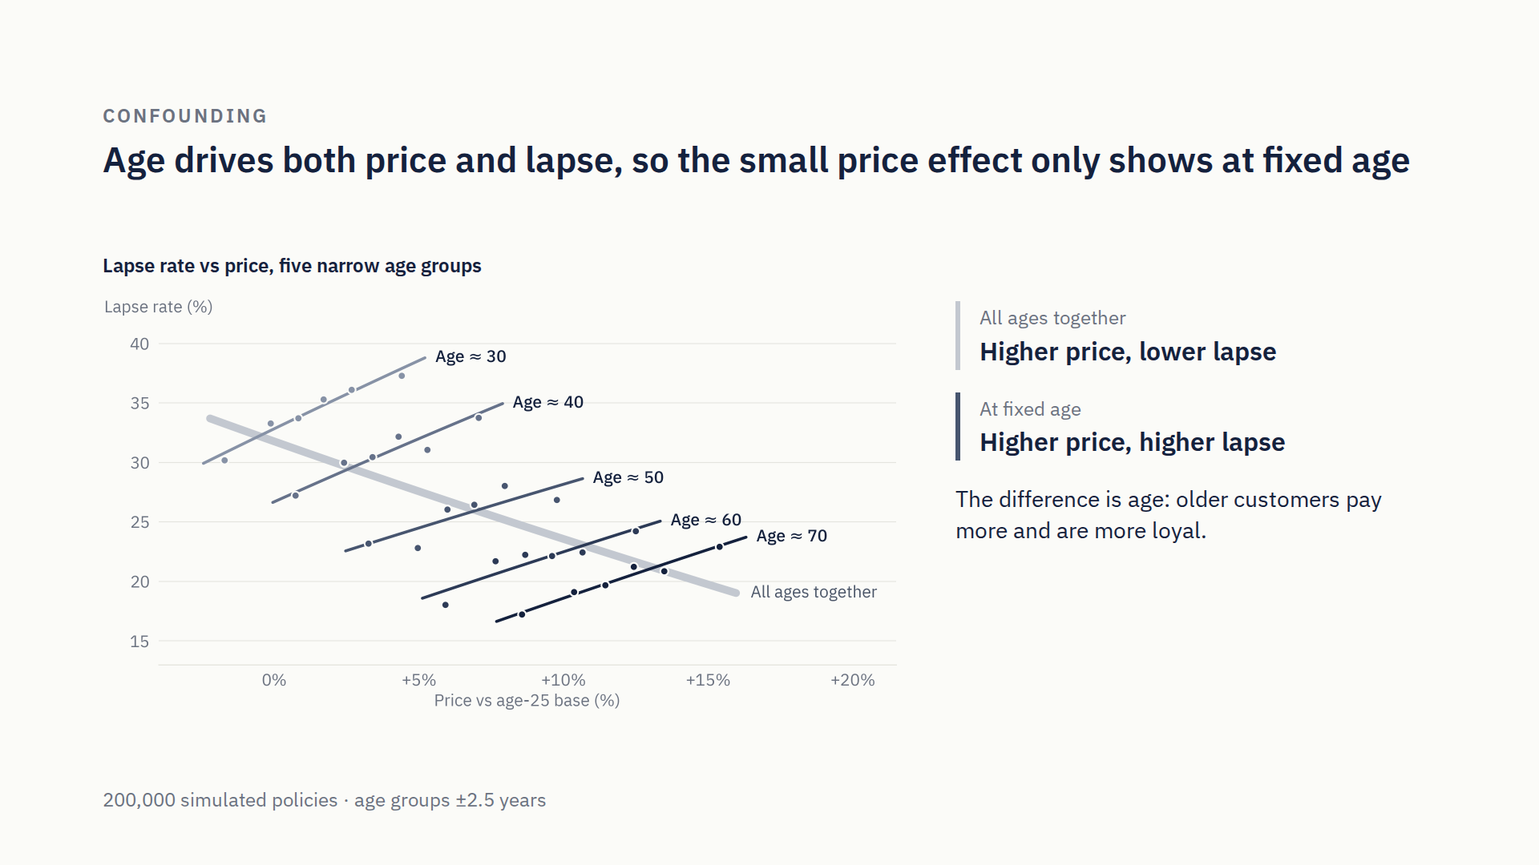
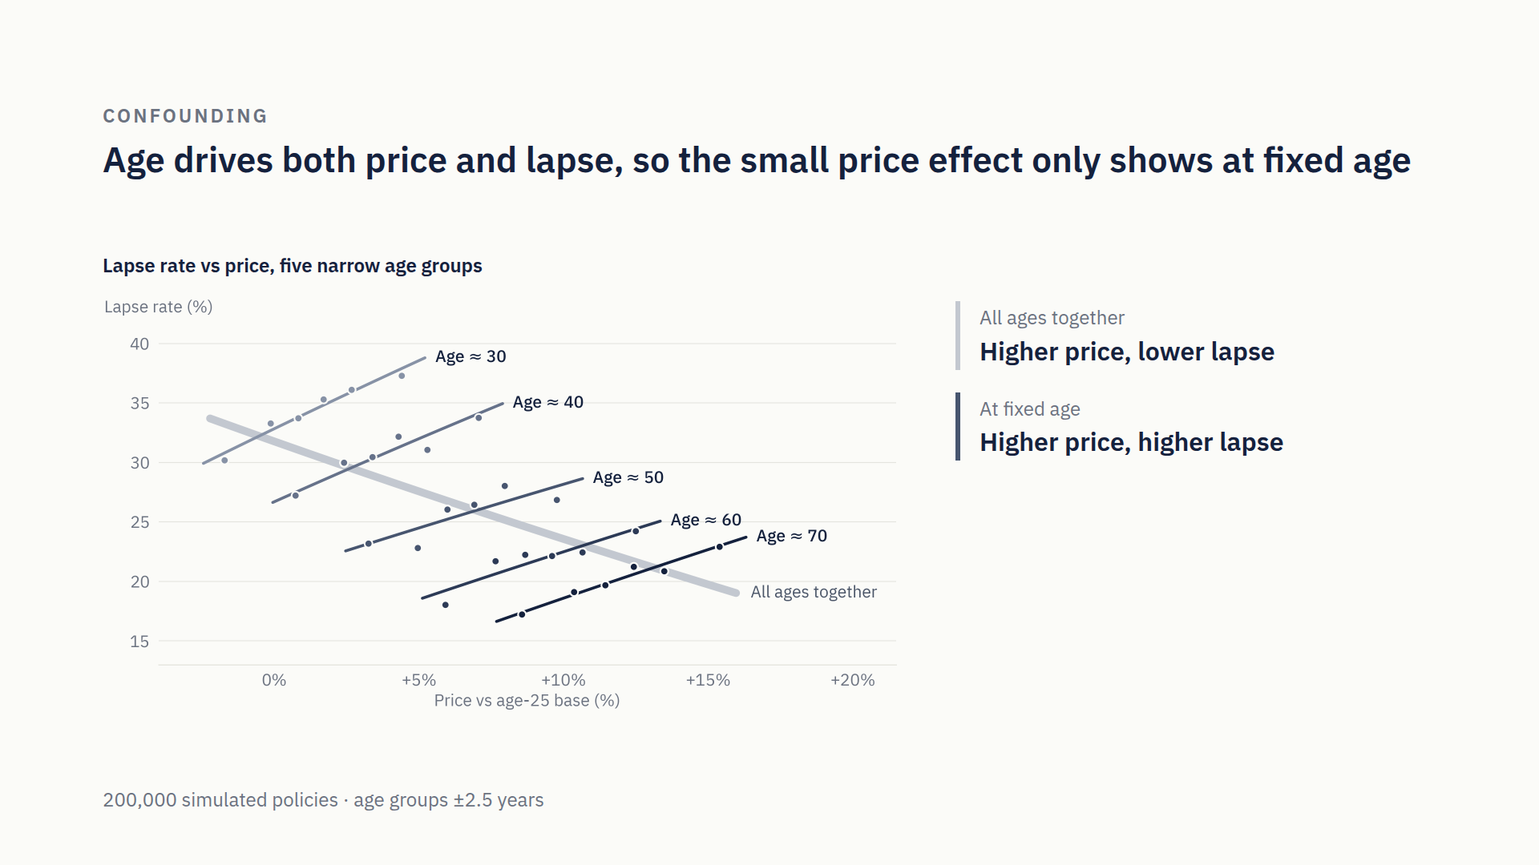
Restructure opening, add takeaways slide, clarify LightGBM naming
- Slide 1: hook only (title, question, known-answer footer); drop the
  causal triangle and the three definition cards.
- Slide 2: the age/price/lapse triangle moves here as click 3, replacing
  the "difference is age" sentence.
- Slide 3: headline names the setup, "LightGBM with price as a feature".
- Slide 4: price-model caption states T̃ = discounts and loadings.
- Slide 6: "What Double ML needs" box moves to the closing slide.
- Slide 7: first-stage heading bridges back: same LightGBM, now only
  asked to predict.
- New slide 9 "Takeaways": three takeaways plus what Double ML needs.
  No new numbers; all figures already in the notes.
- Notes updated to match; screenshots re-rendered for every build step.

Claude-Session: https://claude.ai/code/session_01VHsu4FRFLxVyAMUASwoRCt

diff --git a/causal-pricing-deck/deck/project/slides/question.html b/causal-pricing-deck/deck/project/slides/question.html
@@ -1,41 +1,14 @@
-<section id="question" data-transition="fade" style="background:#14213D; color:#F4F4EF; font-family:'IBM Plex Sans', Arial, sans-serif; padding:128px 128px 160px; display:flex; flex-direction:column; gap:48px">
-  <div style="width:960px; display:flex; flex-direction:column; gap:28px">
+<section id="question" data-transition="fade" style="background:#14213D; color:#F4F4EF; font-family:'IBM Plex Sans', Arial, sans-serif; padding:128px 128px 160px; display:flex; flex-direction:column; justify-content:center; gap:48px">
+  <div style="width:1300px; display:flex; flex-direction:column; gap:36px">
     <p style="font-size:24px; font-weight:600; letter-spacing:3px; text-transform:uppercase; color:#BFC8D6">The question</p>
-    <h1 style="font-size:64px; font-weight:600; line-height:1.1; color:#F4F4EF">A price change is an intervention, not a prediction</h1>
-    <p style="font-size:28px; line-height:1.45; color:#BFC8D6">“What happens to lapse and margin if we raise prices by x%?” An accurate lapse model can still get this wrong.</p>
+    <h1 style="font-size:80px; font-weight:600; line-height:1.1; color:#F4F4EF">A price change is an intervention, not a prediction</h1>
+    <p style="width:1200px; font-size:36px; line-height:1.45; color:#BFC8D6">“What happens to lapse and margin if we raise prices by x%?” An accurate lapse model can still get this wrong.</p>
   </div>
-  <div style="position:absolute; left:1372px; top:128px; width:200px; height:88px; background:#F4F4EF; border-radius:44px; display:flex; align-items:center; justify-content:center"><p style="font-size:32px; font-weight:600; color:#14213D; text-align:center">Age</p></div>
-  <div style="position:absolute; left:1152px; top:448px; width:200px; height:88px; background:#F4F4EF; border-radius:44px; display:flex; align-items:center; justify-content:center"><p style="font-size:32px; font-weight:600; color:#14213D; text-align:center">Price</p></div>
-  <div style="position:absolute; left:1592px; top:448px; width:200px; height:88px; background:#F4F4EF; border-radius:44px; display:flex; align-items:center; justify-content:center"><p style="font-size:32px; font-weight:600; color:#14213D; text-align:center">Lapse</p></div>
-  <x-connector data-build-in="fade 1" x1="1422" y1="216" x2="1252" y2="448" head="end" route="straight" style="color:#9AA5B8; border-width:3px"></x-connector>
-  <p data-build-in="fade 1" style="position:absolute; left:1152px; top:278px; width:150px; font-size:24px; line-height:1.3; color:#BFC8D6; text-align:right">Tariff rises with age</p>
-  <x-connector data-build-in="fade 2" x1="1522" y1="216" x2="1692" y2="448" head="end" route="straight" style="color:#9AA5B8; border-width:3px"></x-connector>
-  <p data-build-in="fade 2" style="position:absolute; left:1642px; top:278px; width:150px; font-size:24px; line-height:1.3; color:#BFC8D6">Lapse falls with age</p>
-  <x-connector data-build-in="fade 3" x1="1352" y1="492" x2="1592" y2="492" head="end" route="straight" style="color:#86B6EF; border-width:5px"></x-connector>
-  <p data-build-in="fade 3" style="position:absolute; left:1360px; top:430px; width:224px; font-size:32px; font-weight:600; color:#86B6EF; text-align:center">θ = ?</p>
-  <div data-build-in="fade 4" style="position:absolute; left:128px; top:654px; width:1664px; height:250px; display:flex; flex-direction:row; gap:32px">
-    <div style="flex:1; display:flex; flex-direction:column; gap:12px; background:#1D2C4D; border-radius:12px; padding:32px">
-      <p style="font-size:24px; font-weight:600; color:#BFC8D6">Price T</p>
-      <p style="font-size:28px; line-height:1.4; color:#E6E9EF">Tariff by age, plus individual discounts and loadings</p>
-    </div>
-    <div style="flex:1; display:flex; flex-direction:column; gap:12px; background:#1D2C4D; border-radius:12px; padding:32px">
-      <p style="font-size:24px; font-weight:600; color:#BFC8D6">Lapse Y</p>
-      <p style="font-size:28px; line-height:1.4; color:#E6E9EF">Lapse at renewal. Older customers are more loyal</p>
-    </div>
-    <div style="flex:1; display:flex; flex-direction:column; gap:12px; background:#1D2C4D; border-radius:12px; padding:32px">
-      <p style="font-size:24px; font-weight:600; color:#BFC8D6">Price effect θ</p>
-      <p style="font-size:28px; line-height:1.4; color:#E6E9EF">+1% price → +1.0 pp lapse, for every customer. Known here, unknown in reality</p>
-    </div>
-  </div>
-  <p style="position:absolute; left:128px; bottom:64px; width:1480px; font-size:24px; color:#8A96AB">Toy world · 200,000 simulated policies · effect sizes exaggerated for visibility</p>
+  <p style="position:absolute; left:128px; bottom:64px; width:1664px; font-size:24px; color:#8A96AB">Toy world with a known answer: +1% price → +1.0 pp lapse · 200,000 simulated policies · effect sizes exaggerated for visibility</p>
   <aside>Message: pricing asks a what-if (intervention); a lapse model answers "who lapses at which price" (prediction).
 - They differ because we set prices from the same factors that drive lapse.
 
-Builds
-- Click 1: tariff rises with age.
-- Click 2: older customers lapse less.
-- Click 3: the arrow we want, price → lapse (θ). Every other path runs through age: confounding.
-- Click 4: the toy world.
+No builds. Pose the question, then promise: we test on a toy portfolio where the answer is known (footer).
 
 Toy world (known truth, so every method can be graded)
 - Age 25–75, one rating factor (in practice: all rating factors).

diff --git a/causal-pricing-deck/deck/project/slides/takeaways.html b/causal-pricing-deck/deck/project/slides/takeaways.html
@@ -1,0 +1,40 @@
+<section id="takeaways" data-transition="fade" style="background:#FBFBF8; color:#4A5568; font-family:'IBM Plex Sans', Arial, sans-serif; padding:128px 128px 160px; display:flex; flex-direction:column; gap:12px">
+  <p style="font-size:24px; font-weight:600; letter-spacing:3px; text-transform:uppercase; color:#6B7280">Takeaways</p>
+  <h2 style="font-size:44px; font-weight:600; line-height:1.15; color:#14213D">Use prediction models to predict, and causal estimators to decide</h2>
+  <div data-build-in="fade 1" style="position:absolute; left:128px; top:315px; width:528px; height:300px; display:flex; flex-direction:column; gap:14px; background:#F1F1EC; border-radius:12px; padding:36px">
+    <p style="font-size:44px; font-weight:600; line-height:1; color:#EB6834">1</p>
+    <h3 style="font-size:28px; font-weight:600; line-height:1.25; color:#14213D">A lapse model is not a what-if</h3>
+    <p style="font-size:24px; line-height:1.35">Age drives both price and lapse, and trees go flat beyond observed prices. With price as a feature: 0.82 instead of 1.0</p>
+  </div>
+  <div data-build-in="fade 2" style="position:absolute; left:696px; top:315px; width:528px; height:300px; display:flex; flex-direction:column; gap:14px; background:#F1F1EC; border-radius:12px; padding:36px">
+    <p style="font-size:44px; font-weight:600; line-height:1; color:#1C5CAB">2</p>
+    <h3 style="font-size:28px; font-weight:600; line-height:1.25; color:#14213D">Learn from free price variation</h3>
+    <p style="font-size:24px; line-height:1.35">Double ML removes what the features predict, then regresses residual on residual: <span style="white-space:nowrap">1.02 (95% CI 0.92–1.11)</span></p>
+  </div>
+  <div data-build-in="fade 3" style="position:absolute; left:1264px; top:315px; width:528px; height:300px; display:flex; flex-direction:column; gap:14px; background:#F1F1EC; border-radius:12px; padding:36px">
+    <p style="font-size:44px; font-weight:600; line-height:1; color:#1C5CAB">3</p>
+    <h3 style="font-size:28px; font-weight:600; line-height:1.25; color:#14213D">It changes the decision</h3>
+    <p style="font-size:24px; line-height:1.35">Double ML finds the margin optimum at +24%, as in the truth. LightGBM keeps raising prices</p>
+  </div>
+  <div data-build-in="fade 4" style="position:absolute; left:128px; top:655px; width:1664px; display:flex; flex-direction:column; gap:10px; background:#F1F1EC; border-radius:12px; padding:24px 36px">
+    <p style="font-size:24px; font-weight:600; letter-spacing:2px; text-transform:uppercase; color:#6B7280">What Double ML needs</p>
+    <ol style="font-size:24px; line-height:1.4; color:#14213D">
+      <li>No hidden drivers of both price and lapse</li>
+      <li>Free price variation in every segment: discounts, loadings, tests</li>
+      <li>A response shape, assumed beyond the data</li>
+    </ol>
+  </div>
+  <p style="position:absolute; left:128px; bottom:64px; width:1480px; font-size:24px; color:#6B7280">Toy world, 200,000 simulated policies · truth: price effect 1.0, margin optimum +24%</p>
+  <aside>Message: the three things to remember, and the conditions under which Double ML can be trusted.
+
+Builds
+- Click 1, the problem: confounding (age drives price and lapse) and extrapolation (trees flat beyond observed prices). LightGBM with price as a feature: 0.82 at 200k, truth 1.00.
+- Click 2, the method: remove what the features predict from price and lapse, read the effect from the residuals. θ̂ = 1.02, 95% CI 0.92–1.11.
+- Click 3, the decision: Double ML's optimum +24% (CI +19% to +30%), index 113, as in the truth. LightGBM: no optimum.
+- Click 4, what Double ML needs:
+  - All drivers of both price and lapse in the model (violation: agents discount customers who threaten to leave).
+  - Free price variation in every segment: discounts, loadings, A/B tests, tariff changes. Less of it → more data needed (E[V²]).
+  - A response shape beyond the data, testable only inside it (e.g. T² via econml's treatment_featurizer).
+
+Close: prediction models to predict; causal estimators, with explicit assumptions, to decide.</aside>
+</section>

diff --git a/causal-pricing-deck/deck/project/slides/orthogonality.html b/causal-pricing-deck/deck/project/slides/orthogonality.html
@@ -5,7 +5,7 @@
   <img src="/_blob/f309cc1e64f44b8477e148a0280189e1" alt="Axes for the estimated price effect against portfolio size from 100 to 200,000 policies, with the true value 1.0 as a dashed line; at 100 and 200 policies too little data." style="position:absolute; left:128px; top:360px; width:900px; height:520px">
   <img data-build-in="fade 1" src="/_blob/b71233fb802225ed2d091427e7d0bdc0" alt="LightGBM's estimate approaches the truth only slowly, reaching 0.82 at 200,000 policies; the remaining gap is labelled bias." style="position:absolute; left:128px; top:360px; width:900px; height:520px">
   <img data-build-in="fade 2" src="/_blob/4a217a1475ec70ce0dd4e368392c3c10" alt="Double ML's estimate is noisy and somewhat low up to a few thousand policies, and sits on the truth from about 5,000 policies." style="position:absolute; left:128px; top:360px; width:900px; height:520px">
-  <div data-build-in="fade 3" style="position:absolute; left:1092px; top:360px; width:700px; display:flex; flex-direction:column; gap:16px">
+  <div data-build-in="fade 3" style="position:absolute; left:1092px; top:440px; width:700px; display:flex; flex-direction:column; gap:40px">
     <div style="display:flex; flex-direction:column; gap:4px; border-left:4px solid #EB6834; padding:4px 0px 4px 24px">
       <p style="font-size:24px; font-weight:600; color:#14213D">LightGBM</p>
       <img src="/_blob/586280be0b7b53925cacafb8a6e8c192" alt="bias approximately equals the price slope of f hat minus f, shrinking like n to the minus one third" style="width:452px; height:56px">
@@ -16,14 +16,6 @@
       <img src="/_blob/1d28f4fe678afc2362f4361a0f6df5b9" alt="bias approximately equals the expectation of the price-model error times the age-effect error, divided by the expectation of V squared, shrinking like n to the minus two thirds" style="width:515px; height:56px">
       <p style="font-size:24px; line-height:1.35"><span style="color:#4A3AA7; font-weight:600">Price-model error</span> × age-effect error:<br>shrinks faster than the noise</p>
     </div>
-  </div>
-  <div data-build-in="fade 4" style="position:absolute; left:1092px; top:703px; width:700px; display:flex; flex-direction:column; gap:10px; background:#F1F1EC; border-radius:12px; padding:20px 28px">
-    <p style="font-size:24px; font-weight:600; letter-spacing:2px; text-transform:uppercase; color:#6B7280">What Double ML needs</p>
-    <ol style="font-size:24px; line-height:1.35; color:#14213D">
-      <li>No hidden drivers of both price and lapse</li>
-      <li>Free price variation: discounts, loadings, tests</li>
-      <li>A response shape, assumed beyond the data</li>
-    </ol>
   </div>
   <p style="position:absolute; left:128px; bottom:64px; width:1480px; font-size:24px; color:#6B7280">30 portfolios per size · line: median · band: 10th–90th percentile · same LightGBM in both methods</p>
   <aside>Message: the answer to "why?". Same learner, same tuning; only the way the price effect is extracted differs.
@@ -52,10 +44,6 @@ Builds
   - LightGBM: one error ≈ n^(−1/3), falls behind its spread. Double ML: product ≈ n^(−2/3), faster than the noise.
   - Measured: LightGBM ≈ n^(−0.3); Double ML product term −0.13 (2k), −0.09 (5k), −0.03 (20k), −0.009 (50k), −0.003 (200k) ≈ n^(−0.8).
   - Formal need: product faster than n^(−1/2), e.g. each error faster than n^(−1/4).
-- Click 4, what Double ML needs:
-  - All drivers of price and lapse in the model (violation: agents discount customers who threaten to leave).
-  - Free price variation in every segment: discounts, loadings, A/B tests, tariff changes. Less of it → more data needed (E[V²]).
-  - A response shape beyond the data, testable only inside it (e.g. T² via econml's treatment_featurizer).
 
-Takeaway: prediction models to predict; causal estimators, with explicit assumptions, to decide.</aside>
+Bridge: "What Double ML needs" is on the closing slide.</aside>
 </section>

diff --git a/causal-pricing-deck/deck/project/slides/confounding.html b/causal-pricing-deck/deck/project/slides/confounding.html
@@ -13,8 +13,16 @@
       <p style="font-size:24px; color:#6B7280">At fixed age</p>
       <p style="font-size:32px; font-weight:600; line-height:1.25; color:#14213D">Higher price, higher lapse</p>
     </div>
-    <p style="font-size:28px; line-height:1.4; color:#14213D">The difference is age: older customers pay more and are more loyal.</p>
   </div>
+  <div data-build-in="fade 3" style="position:absolute; left:1412px; top:640px; width:160px; height:56px; background:#14213D; border-radius:28px; display:flex; align-items:center; justify-content:center"><p style="font-size:26px; font-weight:600; color:#FBFBF8; text-align:center">Age</p></div>
+  <div data-build-in="fade 3" style="position:absolute; left:1192px; top:836px; width:160px; height:56px; background:#14213D; border-radius:28px; display:flex; align-items:center; justify-content:center"><p style="font-size:26px; font-weight:600; color:#FBFBF8; text-align:center">Price</p></div>
+  <div data-build-in="fade 3" style="position:absolute; left:1632px; top:836px; width:160px; height:56px; background:#14213D; border-radius:28px; display:flex; align-items:center; justify-content:center"><p style="font-size:26px; font-weight:600; color:#FBFBF8; text-align:center">Lapse</p></div>
+  <x-connector data-build-in="fade 3" x1="1452" y1="696" x2="1272" y2="836" head="end" route="straight" style="color:#9AA5B8; border-width:3px"></x-connector>
+  <x-connector data-build-in="fade 3" x1="1532" y1="696" x2="1712" y2="836" head="end" route="straight" style="color:#9AA5B8; border-width:3px"></x-connector>
+  <x-connector data-build-in="fade 3" x1="1352" y1="864" x2="1632" y2="864" head="end" route="straight" style="color:#2A78D6; border-width:5px"></x-connector>
+  <p data-build-in="fade 3" style="position:absolute; left:1136px; top:720px; width:190px; font-size:24px; line-height:1.3; color:#4A5568; text-align:right">Tariff rises<br>with age</p>
+  <p data-build-in="fade 3" style="position:absolute; left:1660px; top:720px; width:134px; font-size:24px; line-height:1.3; color:#4A5568">Lapse falls<br>with age</p>
+  <p data-build-in="fade 3" style="position:absolute; left:1372px; top:818px; width:240px; font-size:24px; font-weight:600; color:#1C5CAB; text-align:center">θ, at fixed age</p>
   <p style="position:absolute; left:128px; bottom:64px; width:1480px; font-size:24px; color:#6B7280">200,000 simulated policies · age groups ±2.5 years</p>
   <aside>Message: age drives both price and loyalty; the price effect shows only at fixed age, and it is small next to the age effect.
 
@@ -24,7 +32,9 @@ Builds
   - Within a group the tariff barely moves (≈ ±0.6%): price differences are mainly discounts and loadings.
   - There: higher price → more lapse, slope ≈ +1 pp per +1%.
   - Groups drift down to the right: older customers pay more AND lapse less. The raw trend is that age effect.
-- Click 2: the summary. The difference is age, which moves both.
+- Click 2: the summary.
+- Click 3: the mechanism. Tariff rises with age, lapse falls with age: every path between price and lapse except θ runs through age (confounding).
+  - θ, the arrow we want, only shows when age is held fixed.
 
 Sizes, if asked
 - Age 25 → 75 at fixed price: −29 pp lapse.

diff --git a/causal-pricing-deck/deck/project/slides/extrapolation.html b/causal-pricing-deck/deck/project/slides/extrapolation.html
@@ -1,6 +1,6 @@
 <section id="extrapolation" data-transition="fade" style="background:#FBFBF8; color:#4A5568; font-family:'IBM Plex Sans', Arial, sans-serif; padding:128px 128px 160px; display:flex; flex-direction:column; gap:12px">
   <p style="font-size:24px; font-weight:600; letter-spacing:3px; text-transform:uppercase; color:#6B7280">Extrapolation</p>
-  <h2 style="font-size:44px; font-weight:600; line-height:1.15; color:#14213D">LightGBM on age and price gets the sign right, but freezes beyond the data</h2>
+  <h2 style="font-size:44px; font-weight:600; line-height:1.15; color:#14213D">LightGBM with price as a feature gets the sign right, but freezes beyond the data</h2>
   <p style="position:absolute; left:128px; top:315px; width:800px; font-size:24px; font-weight:600; color:#14213D">Where the data is: price vs age</p>
   <img src="/_blob/ff1099df72932fd74ccec6934259aaea" alt="Observed customers: price rises smoothly with age and stays close to the tariff at every age." style="position:absolute; left:128px; top:360px; width:800px; height:440px">
   <img data-build-in="fade 1" src="/_blob/ce14c9acee8edaaa5537fa9d9e2714f5" alt="The same customers shifted up by 20 percent: the whole cloud lies above anything observed." style="position:absolute; left:128px; top:360px; width:800px; height:440px">
@@ -8,7 +8,7 @@
   <p data-build-in="fade 2" style="position:absolute; left:992px; top:315px; width:800px; font-size:24px; font-weight:600; color:#14213D">Lapse rate after a price change for all customers</p>
   <img data-build-in="fade 2" src="/_blob/b5760f09d97730469da68fc618ba3824" alt="True lapse rises steadily with the price change; the observed price variation is a narrow band around zero." style="position:absolute; left:992px; top:360px; width:800px; height:440px">
   <img data-build-in="fade 3" src="/_blob/29ddf7f971eb75498108ca7e61816cbb" alt="LightGBM follows the truth roughly inside the observed band, bends away beyond it and then stays flat." style="position:absolute; left:992px; top:360px; width:800px; height:440px">
-  <p data-build-in="fade 3" style="position:absolute; left:992px; top:824px; width:800px; font-size:24px; line-height:1.4">Inside the range: right sign, slope too low (0.82 vs 1.0). Beyond it, LightGBM uses older customers’ lapse, then freezes.</p>
+  <p data-build-in="fade 3" style="position:absolute; left:992px; top:824px; width:800px; font-size:24px; line-height:1.4">Inside the range: right sign, slope too low (0.82 vs 1.0). Beyond it, LightGBM borrows older customers’ response, then goes flat.</p>
   <aside>Message: adding age fixes the sign locally, but the what-if we care about lies outside the data.
 
 Setup

diff --git a/causal-pricing-deck/deck/project/slides/residualise.html b/causal-pricing-deck/deck/project/slides/residualise.html
@@ -26,7 +26,7 @@
     <h3 style="font-size:28px; font-weight:600; line-height:1.2; color:#14213D">2 · Predict price from age</h3>
     <img src="/_blob/7449fae8d99f04432acbadc3a3439608" alt="Price against age with the price model's fitted line, which recovers the smooth tariff." style="width:520px; height:250px">
     <img src="/_blob/18bbf673ce54de878a61abc84c218038" alt="T tilde equals T minus m hat of X" style="width:182px; height:56px">
-    <p style="font-size:24px; line-height:1.35"><span style="color:#4A3AA7; font-weight:600">Price model</span> · first stage</p>
+    <p style="font-size:24px; line-height:1.35"><span style="color:#4A3AA7; font-weight:600">Price model</span> · T̃: discounts and loadings</p>
   </div>
   <div data-build-in="fade 3" style="position:absolute; left:1272px; top:503px; width:520px; height:410px; display:flex; flex-direction:column; gap:10px">
     <h3 style="font-size:28px; font-weight:600; line-height:1.2; color:#14213D">3 · Regress residual on residual</h3>
@@ -45,7 +45,7 @@ The model
 
 Builds (aqua = lapse model, violet = price model, blue = Double ML effect)
 - Click 1: LightGBM predicts lapse from age, ℓ̂(X) (econml model_y); Ỹ = Y − ℓ̂(X).
-- Click 2: LightGBM predicts price from age, m̂(X) (model_t), recovers the tariff; T̃ estimates V.
+- Click 2: LightGBM predicts price from age, m̂(X) (model_t), recovers the tariff; T̃ estimates V: the discounts and loadings, the only experiment in the data.
 - Click 3: least squares of Ỹ on T̃ through the origin: θ̂ = 1.02, SE 0.049, 95% CI 0.92–1.11. Truth 1.00.
   - Dots are 20 bins of T̃; the regression uses all 200,000 policies.
 

diff --git a/causal-pricing-deck/deck/project/slides/stages.html b/causal-pricing-deck/deck/project/slides/stages.html
@@ -17,7 +17,7 @@
     <p style="font-size:24px; line-height:1.35"><span style="color:#1C5CAB; font-weight:600">Price effect</span> from the residuals, now per customer</p>
   </div>
   <div data-build-in="fade 4" style="position:absolute; left:128px; top:600px; width:1664px; display:flex; flex-direction:column; gap:20px">
-    <h3 style="font-size:28px; font-weight:600; line-height:1.2; color:#14213D">Why LightGBM for the first stage</h3>
+    <h3 style="font-size:28px; font-weight:600; line-height:1.2; color:#14213D">Why LightGBM for the first stage: the same model as before, now only asked to predict</h3>
     <div style="display:flex; flex-direction:row; gap:32px">
       <div style="flex:1; display:flex; flex-direction:column; gap:12px; background:#F1F1EC; border-radius:12px; padding:28px">
         <p style="font-size:28px; font-weight:600; line-height:1.25; color:#14213D">Many rating factors</p>
@@ -49,7 +49,7 @@ Builds
 - Click 3, final stage: price effect from the residuals.
   - Toy: one number, Ỹ ≈ θ̂·T̃. Now θ̂(X) may differ per customer; how flexibly is the next slide.
   - The causal step: no ground truth to score it → rests on "What Double ML needs".
-- Click 4, why LightGBM in the first stage:
+- Click 4, why LightGBM in the first stage. Heading: the same LightGBM that failed with price as a feature; here it only predicts, which it is good at.
   - Many rating factors: learns shapes and interactions without us specifying them, unlike a GLM.
   - Categories and gaps: native categorical features (also many levels) and missing values.
   - Fast: both first-stage models are refitted once per fold.

diff --git a/causal-pricing-deck/deck/project/slides/final-stage.html b/causal-pricing-deck/deck/project/slides/final-stage.html
@@ -75,7 +75,5 @@ Builds
 
 Footer
 - Best of the three in our project. Part of the gain is likely honesty itself, not only flexibility.
-- "What Double ML needs" still holds for all three.
-
-Takeaway of the deck: prediction models to predict; causal estimators, with explicit assumptions, to decide.</aside>
+- "What Double ML needs" still holds for all three.</aside>
 </section>

diff --git a/causal-pricing-deck/README.md b/causal-pricing-deck/README.md
@@ -1,10 +1,10 @@
 # Causal pricing deck: LightGBM vs Double ML
 
-An 8-slide deck on causal ML in insurance pricing. It uses a toy renewal/lapse portfolio with a known truth.
+A 9-slide deck on causal ML in insurance pricing. It uses a toy renewal/lapse portfolio with a known truth.
 
 Live deck (Claude Slides artifact, private): https://claude.ai/artifact/TakwyxEBZxjuxXRuNt7iBw
 
-Story: confounding (age) → extrapolation (LightGBM freezes) → how Double ML works → pricing decision → why Double ML is better (convergence) → our setup: LightGBM first stage, then the final-stage options and why the causal forest.
+Story: the question → confounding (age) → extrapolation (LightGBM with price as a feature freezes) → how Double ML works → pricing decision → why Double ML is better (convergence) → our setup: LightGBM first stage, then the final-stage options and why the causal forest → takeaways and what Double ML needs.
 
 ## Toy world (`cont.py`)
 
